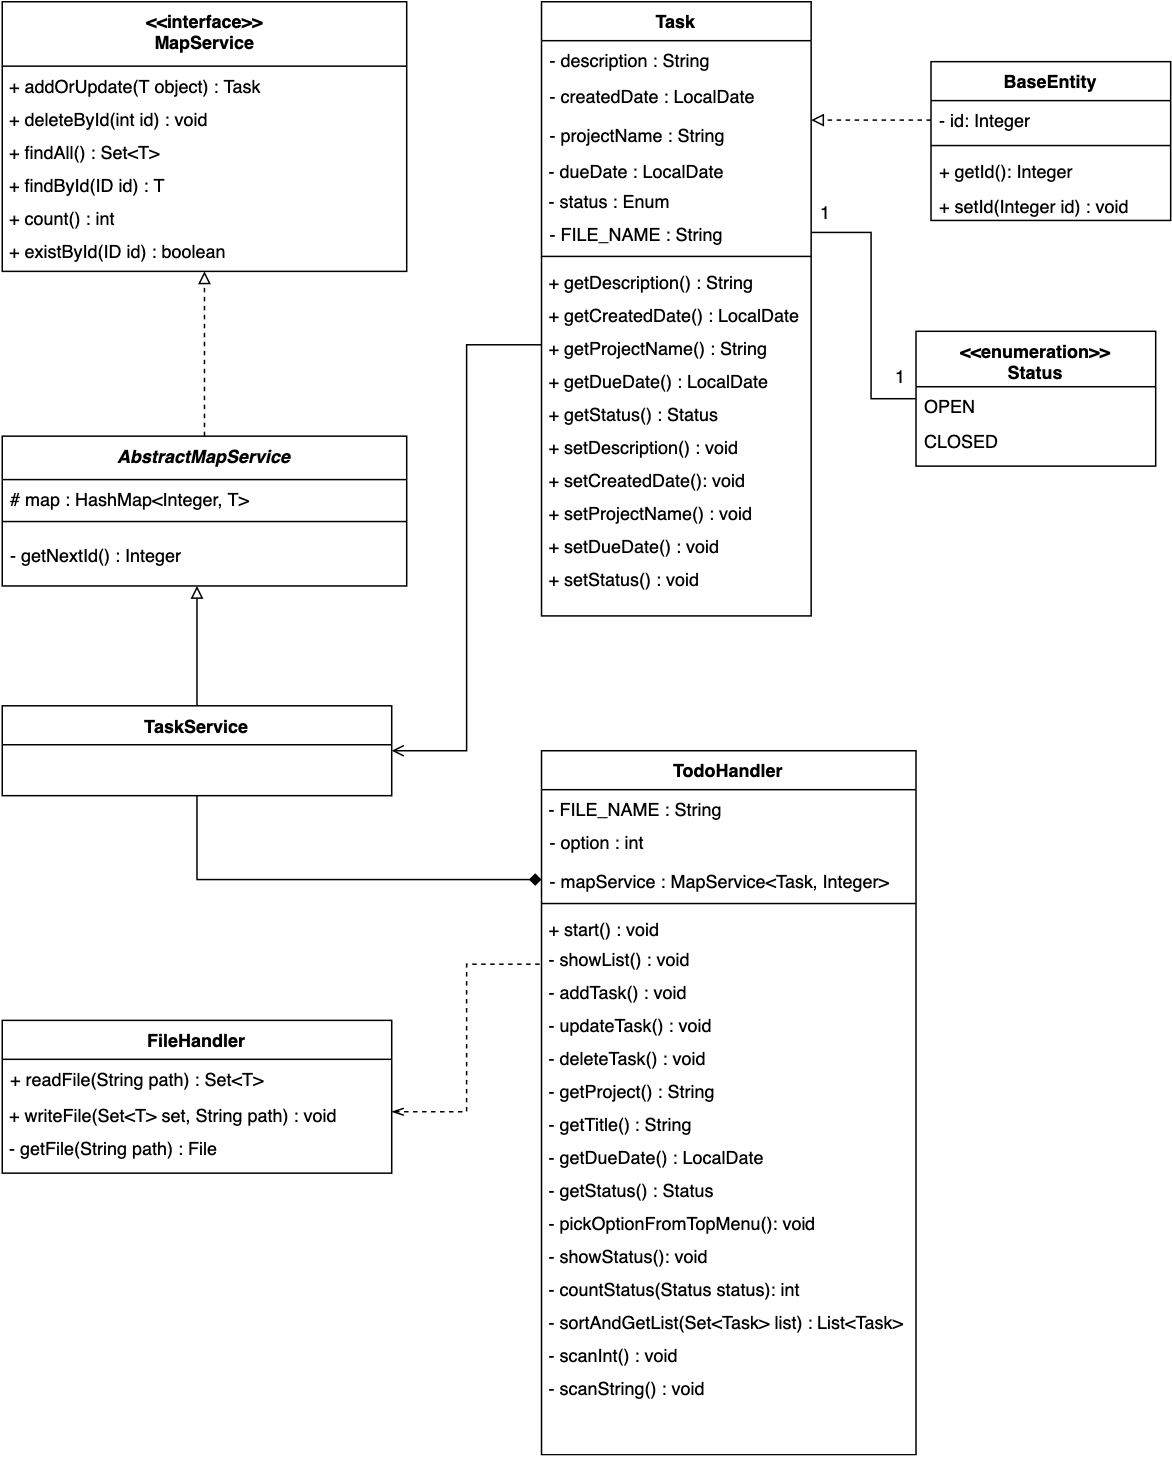
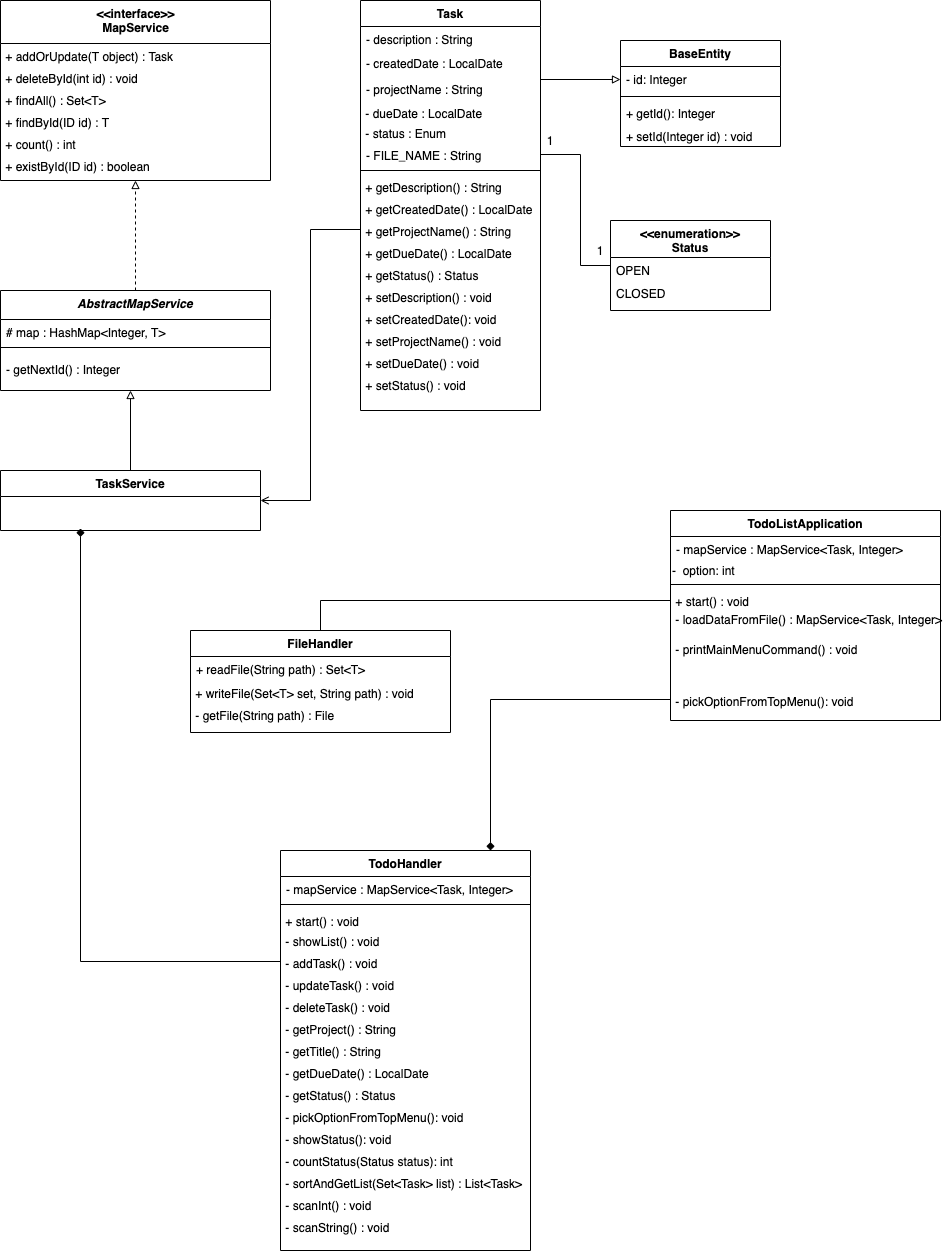
Add test case for filehandler class.Refactor class diagram

diff --git a/src/main/java/handler/FileHandler.java b/src/main/java/handler/FileHandler.java
@@ -20,15 +20,13 @@ public class FileHandler {
      * @throws IOException
      * @throws ClassNotFoundException
      */
-    @SuppressWarnings("unchecked")
     public static <T> Set<T> readFile(String path) throws IOException, ClassNotFoundException {
-        FileInputStream fileInputStream;
         Set<T> set = new HashSet<>();
         File file = getFile(path);
-        fileInputStream = new FileInputStream(file);
+        FileInputStream fileInputStream = new FileInputStream(file);
 
         if (file.length() != 0) {
-            ObjectInputStream objectInputStream = new ObjectInputStream(fileInputStream);
+            ObjectInputStream objectInputStream = new ObjectInputStream(new BufferedInputStream(fileInputStream));
             set = (Set<T>) objectInputStream.readObject();
             objectInputStream.close();
         } else {
@@ -48,7 +46,7 @@ public class FileHandler {
     public static <T> void writeFile(Set<T> set, String path) throws IOException {
         File file = getFile(path);
         FileOutputStream fileOutputStream = new FileOutputStream(file);
-        ObjectOutputStream objectOutputStream = new ObjectOutputStream(fileOutputStream);
+        ObjectOutputStream objectOutputStream = new ObjectOutputStream(new BufferedOutputStream(fileOutputStream));
         objectOutputStream.writeObject(set);
         objectOutputStream.close();
     }

diff --git a/src/test/java/handler/FileHandlerTest.java b/src/test/java/handler/FileHandlerTest.java
@@ -1,0 +1,49 @@
+package handler;
+
+
+import model.Status;
+import model.Task;
+import org.junit.Test;
+
+import java.io.IOException;
+import java.time.LocalDate;
+import java.util.HashSet;
+import java.util.Set;
+
+import static org.junit.Assert.assertEquals;
+
+public class FileHandlerTest {
+
+    @Test
+    public void testReadAndWriteFile() throws IOException, ClassNotFoundException {
+        String fileName = "test-todolist.txt";
+        Set<Task> tasks = new HashSet<>();
+
+        Task task1 = new Task(1,
+                "Read History Book",
+                "Habits", LocalDate.now(),
+                LocalDate.now().plusMonths(1),
+                Status.OPEN);
+        Task task2 = new Task(1,
+                "Do Morning Yoga",
+                "Habits", LocalDate.now(),
+                LocalDate.now().plusMonths(2),
+                Status.OPEN);
+        Task task3 = new Task(1,
+                "Buy Running Shoes",
+                "Shopping", LocalDate.now(),
+                LocalDate.now().plusMonths(5),
+                Status.DONE);
+        tasks.add(task1);
+        tasks.add(task2);
+        tasks.add(task3);
+
+
+        FileHandler.writeFile(tasks, fileName);
+        Set<Task> returnedTask = FileHandler.readFile(fileName);
+
+        assertEquals(tasks, returnedTask);
+
+    }
+
+}

diff --git a/src/main/java/model/Task.java b/src/main/java/model/Task.java
@@ -1,6 +1,7 @@
 package model;
 
 import java.time.LocalDate;
+import java.util.Objects;
 
 public class Task extends BaseEntity {
 
@@ -60,5 +61,25 @@ public class Task extends BaseEntity {
 
     public void setProject(String project) {
         this.project = project;
+    }
+
+    @Override
+    public int hashCode() {
+        return this.getId();
+    }
+
+    @Override
+    public boolean equals(Object o) {
+        if (this == o)
+            return true;
+        if (o == null || getClass() != o.getClass())
+            return false;
+        Task obj = (Task) o;
+        return (Objects.equals(this.getId(), obj.getId()) &&
+                Objects.equals(this.title, obj.title) &&
+                Objects.equals(this.project, obj.project) &&
+                Objects.equals(this.createdDate, obj.createdDate) &&
+                Objects.equals(this.dueDate, obj.dueDate) &&
+                Objects.equals(this.status, obj.status));
     }
 }
